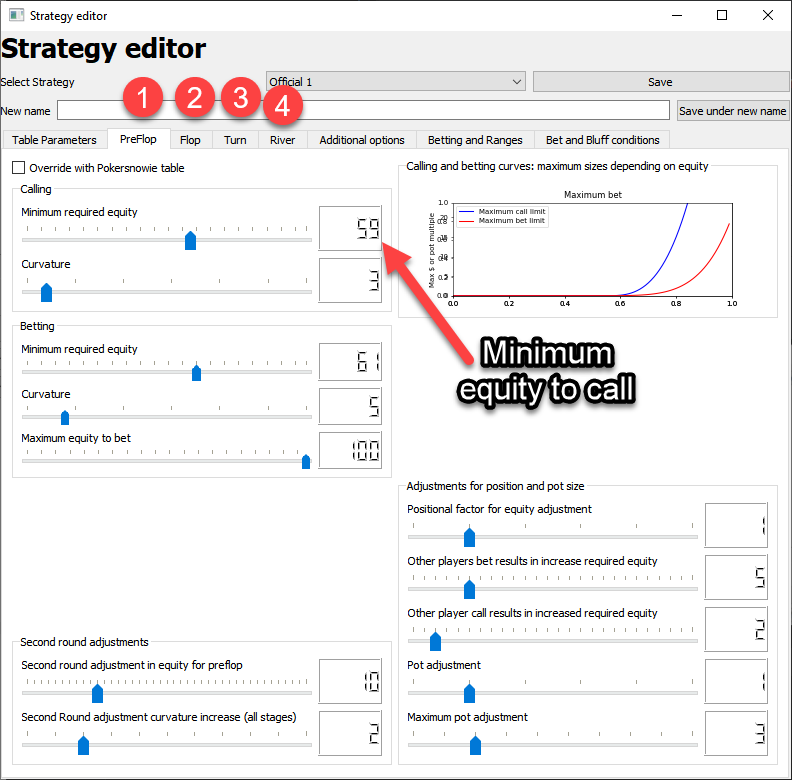
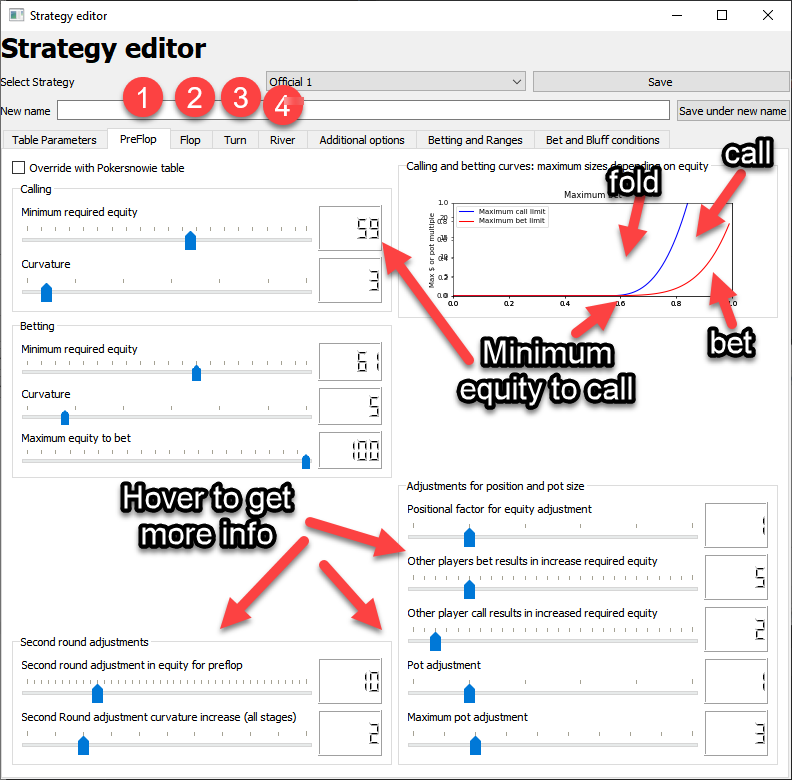
doc animation

diff --git a/readme.rst b/readme.rst
@@ -15,7 +15,8 @@ Partypoker:
 ~~~~~~~~~~~
 * Use Fast Forward Tables
 * Select Official PartyPoker table scraper
-.. figure:: doc/fullscreen1.png
+
+.. figure:: doc/partypoker.gif
 
 Pokerstars:
 ~~~~~~~~~~~
@@ -71,7 +72,7 @@ A variety of factors are taken into consideration when the bot makes decisions a
 
 A variety of other options can be edited for each strategy:
 
-.. figure:: doc/ranges.png
+.. figure:: doc/strategy_editor.gif
 
 
 Full version:
@@ -103,11 +104,11 @@ Strategy Analyzer
 
 Analyze individual hands:
 
-.. figure:: doc/strategy_analyser_scatter.jpg
+.. figure:: doc/strategy_analyzer.gif
 
 
-Adding new tables
-~~~~~~~~~~~~~~~~~
+Mapping new tables
+------------------
 
 The bot can learn to read new tables, either by using templates or by training a neural network that uses data augmentation based on the given templates.
 
@@ -130,9 +131,9 @@ The setup to add new tables looks like this:
 
 Running via python source code
 ------------------------------
-- Download pycharm as an IDE
-- Install python 3.7 or Anaconda (=python with packages)
-- Create an environment with ``conda create -n poker python=3.7`` or use pycharm's functionality to create a new virtual environment. Chefck youtube for details.
+- Download pycharm communite edition as an IDE from here: https://www.jetbrains.com/pycharm/download/#section=windows
+- Install python 3.7 or Anaconda (=python with packages) from here: https://www.python.org/downloads/release/python-379/
+- Create an environment with ``conda create -n poker python=3.7`` or use pycharm's functionality to create a new virtual environment. Check youtube for details.
 - Install all the packages with ``pip install -r requirements.txt``
 - You also may need to get c++ runtime distributable: https://visualstudio.microsoft.com/downloads/
 - Install tesseract from https://github.com/UB-Mannheim/tesseract/wiki which is needed for OCR of the numbers that are scraped
@@ -172,6 +173,12 @@ poker.tests
 -  ``test_pylint.py``: pylint and pydoc tests to ensure pep8 standards and static code analysis
 
 
+Graphical user interface (gui)
+^^^^^^^^^^^^^^^^^^^^^^^^^^^^^^
+
+- Download QT for open source project: https://www.qt.io/download-open-source
+- Use the qt designer to edit any of the .ui files in gui/ui
+
 
 Roadmap
 -------
@@ -183,7 +190,8 @@ Roadmap
 - [x] Fix pylint errors and improve code quality
 - [ ] Update tests. Some are currently outdated. More tests are needed
 - [ ] Add more strategies
-- [ ] Combine the bot with the neuron_poker project and have it play based on learned strategies via self-play based on reinforcement learning
+- [ ] Switch from using pytesseract to tesserocr to speed up OCR, this should considerably speed up the bot
+- [ ] Better Analyze the collected data to improve strategies
 
 
 Making fixes in the code
